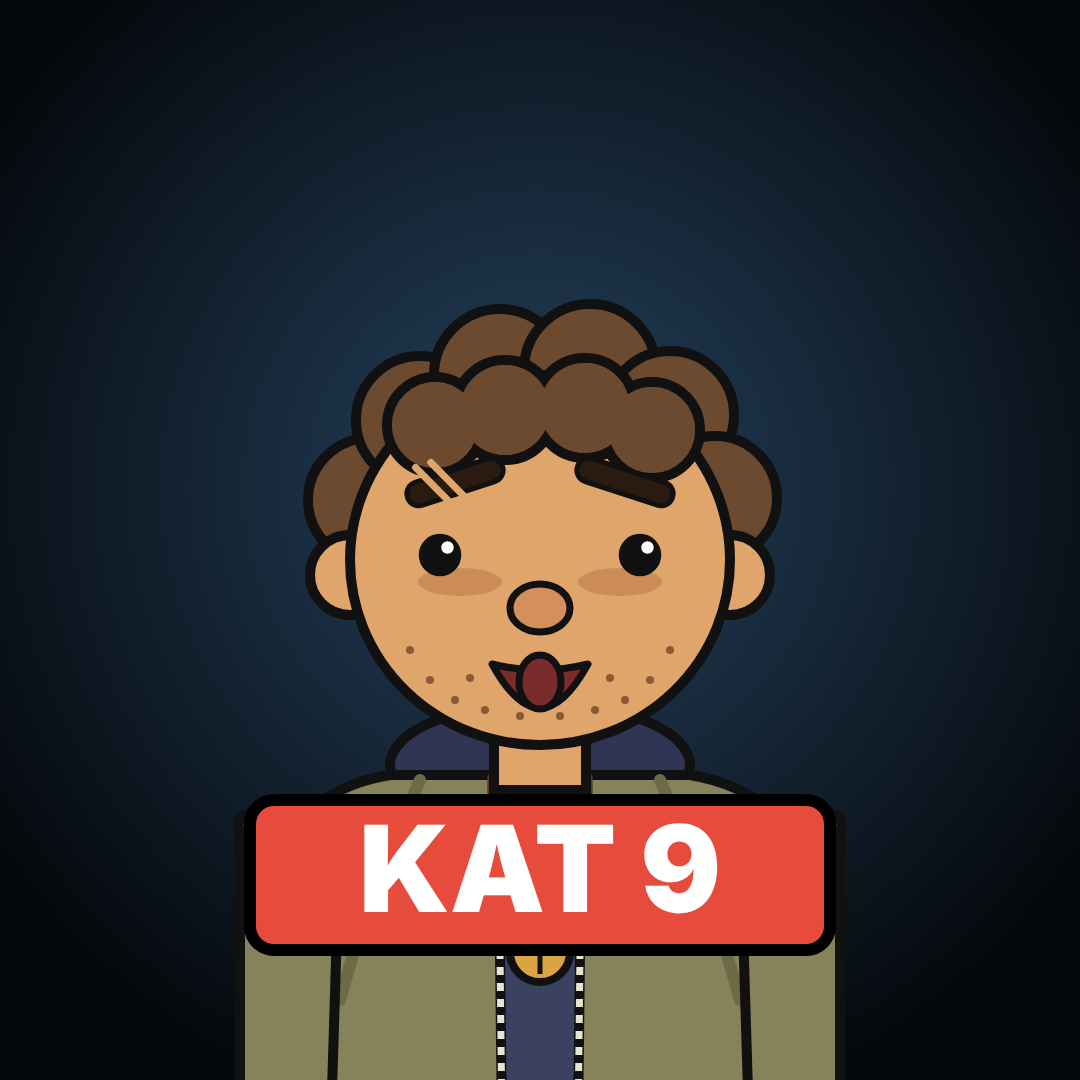
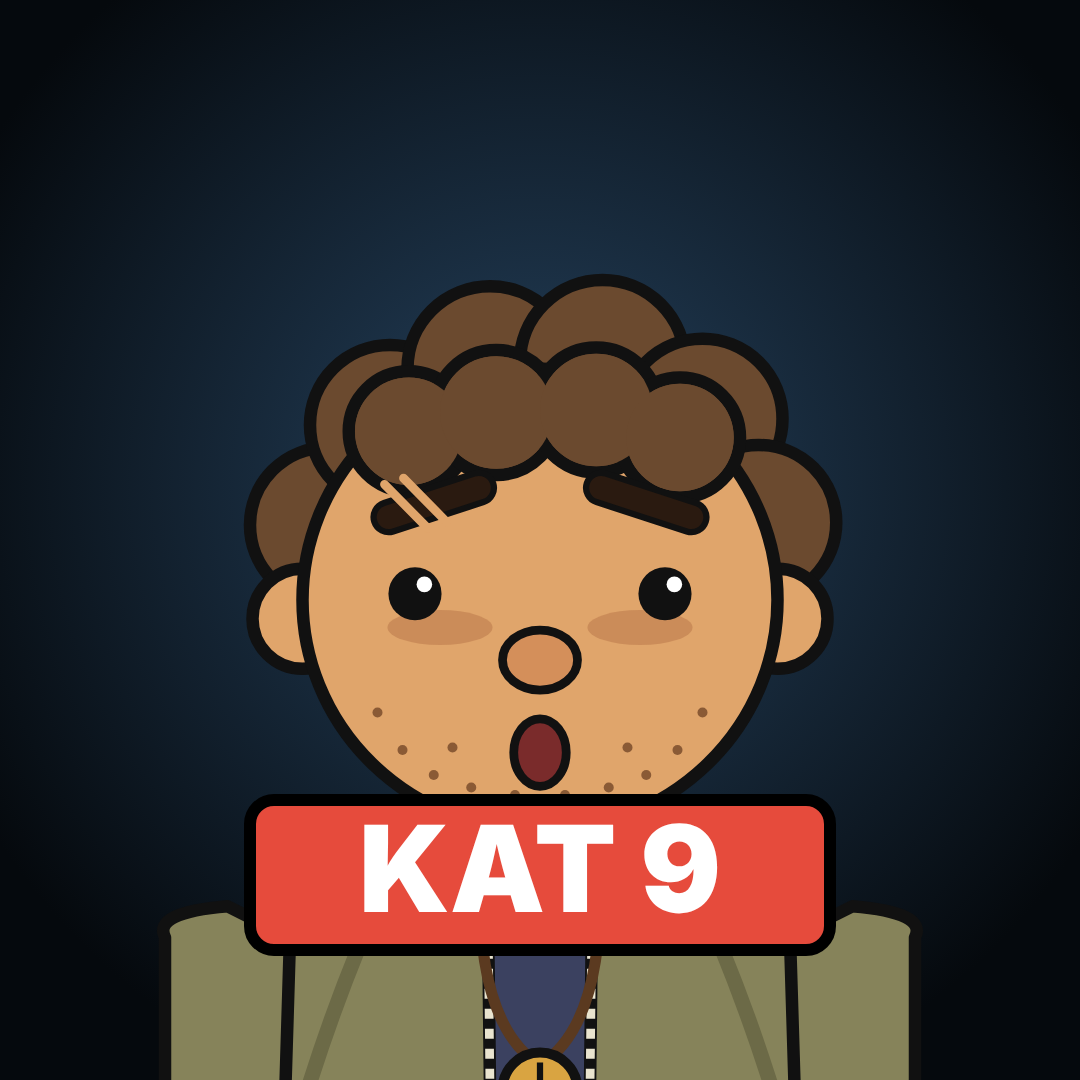
Profil ve YouTube kapağı: ağız şekli düzeltildi (eksik CSS), yüz büyütüldü
Claude-Session: https://claude.ai/code/session_01LL2aFcoaTdc2rLbhc4og9o

diff --git a/prototip/kanal-gorselleri.html b/prototip/kanal-gorselleri.html
@@ -1,7 +1,7 @@
 <!doctype html>
 <html lang="tr"><head><meta charset="utf-8"><title>Kat 9 Kanal Görselleri</title>
 <style>
-html,body{margin:0;background:#000}svg{display:block}
+html,body{margin:0;background:#000}svg{display:block}.m{display:none}.m.on{display:inline}
 .deniz[data-mood="scared"] .d-browL{transform-origin:-85px -58px;transform:translateY(-20px) rotate(-18deg)}
 .deniz[data-mood="scared"] .d-browR{transform-origin:85px -58px;transform:translateY(-20px) rotate(18deg)}
 .deniz[data-mood="scared"] .d-eyes{transform-origin:0 -5px;transform:scale(1.25)}
@@ -36,6 +36,6 @@ function corridor(g){const xl=u=>400*u,yt=u=>700*u,yb=u=>1920-820*u;
  [[.1,.24],[.4,.5],[.68,.74]].forEach(([u1,u2])=>{[-1,1].forEach(side=>{const X=u=>side<0?xl(u):1080-xl(u),top=u=>yb(u)-.78*(yb(u)-yt(u));
   el(g,'polygon',{points:`${X(u1)},${top(u1)} ${X(u2)},${top(u2)} ${X(u2)},${yb(u2)} ${X(u1)},${yb(u1)}`,fill:'#1b2c3f',stroke:'#05090d','stroke-width':6})})})}
 corridor($('bcor'));Sisli.draw($('bahmet'),Sisli.presets.ahmet,540,1090,.34);
-const p=Rigs.deniz($("pd"),{x:540,y:560,s:1.0,mood:"scared"});Rigs.mouth(p,1);
+const p=Rigs.deniz($("pd"),{x:540,y:600,s:1.25,mood:"scared"});Rigs.mouth(p,3);
 const b=Rigs.deniz($('bd'),{x:560,y:1060,s:1.05,mood:'scared'});Rigs.mouth(b,3);
 </script></body></html>
